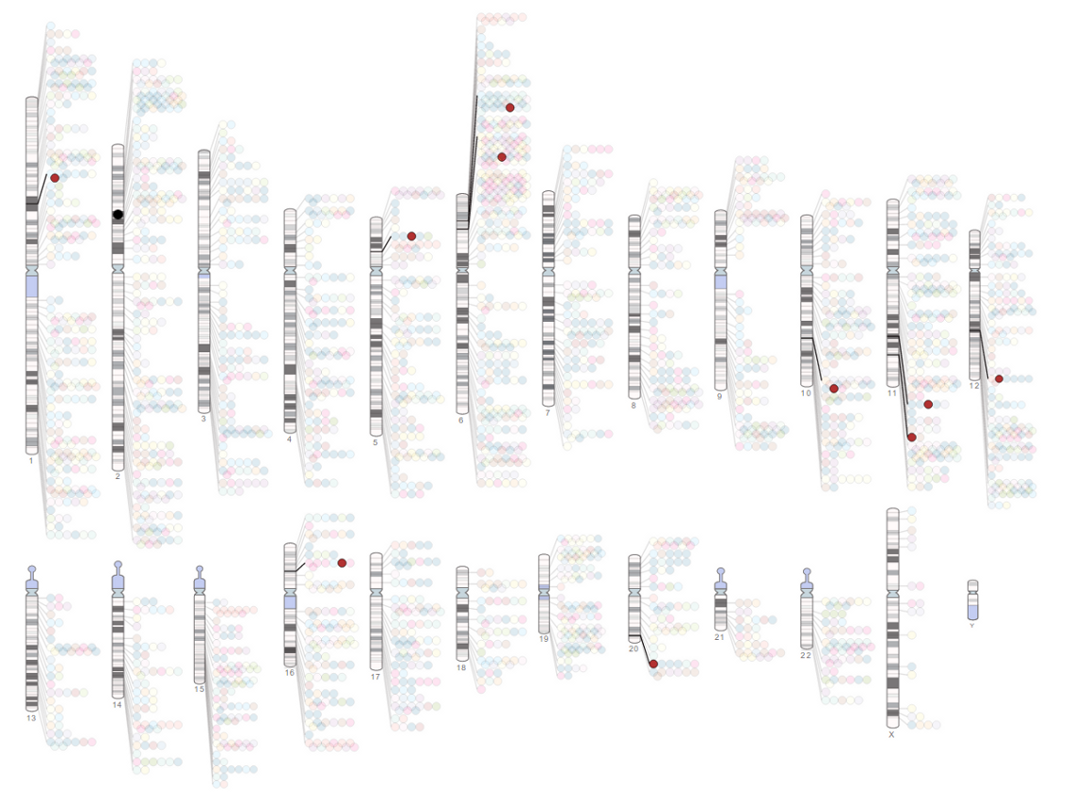
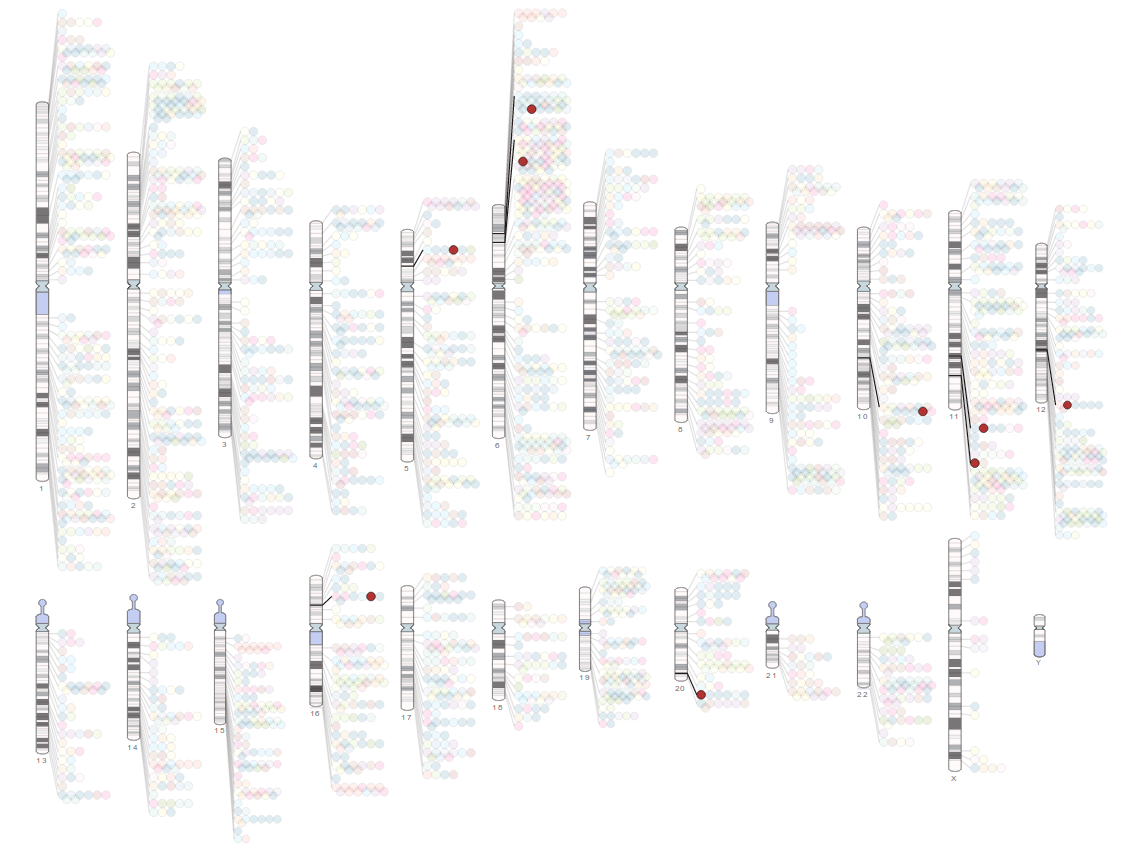
Prefiltered images updated for new kb

diff --git a/goci-diagram/goci-pussycat/src/main/webapp/index.html b/goci-diagram/goci-pussycat/src/main/webapp/index.html
@@ -202,7 +202,7 @@
                 <img src="images/loader.gif" alt="Please wait - diagram loading"/><br/>
                 <span id="diagramareaerrortext"></span><br/> <a id="retrybutton" href="#" style="font-weight: bold">Retry</a>
 
-                <p><a href="images/timeseries/gwas-2012-08.png">A static version of the diagram in PNG format can be
+                <p><a href="images/timeseries/gwas-2012-09.png">A static version of the diagram in PNG format can be
                     found here</a></p>
             </div>
             <div id="diagramareacontent">
@@ -458,7 +458,7 @@
 
         <h4>Most Recent GWAS Diagram</h4>
         <ul>
-            <li><a href="images/timeseries/gwas-2012-08.png">Full GWAS diagram, PNG</a></li>
+            <li><a href="images/timeseries/gwas-2012-09.png">Full GWAS diagram, PNG</a></li>
         </ul>
 
         <h4>Older GWAS Diagrams</h4>
@@ -692,7 +692,7 @@
             specify in which web browser, including which version, and which operating system the problem occurred. This
             application is tested in all the latest versions of Mozilla Firefox, Google Chrome, Safari and Internet
             Explorer. If you find an older browser version which does not work, please let us know. In this event, <b><a
-                    href="images/timeseries/gwas-2012-08.png">click here for a static version of the diagram in PNG
+                    href="images/timeseries/gwas-2012-09.png">click here for a static version of the diagram in PNG
                 format</a></b>.</p>
     </div>
 </div>
